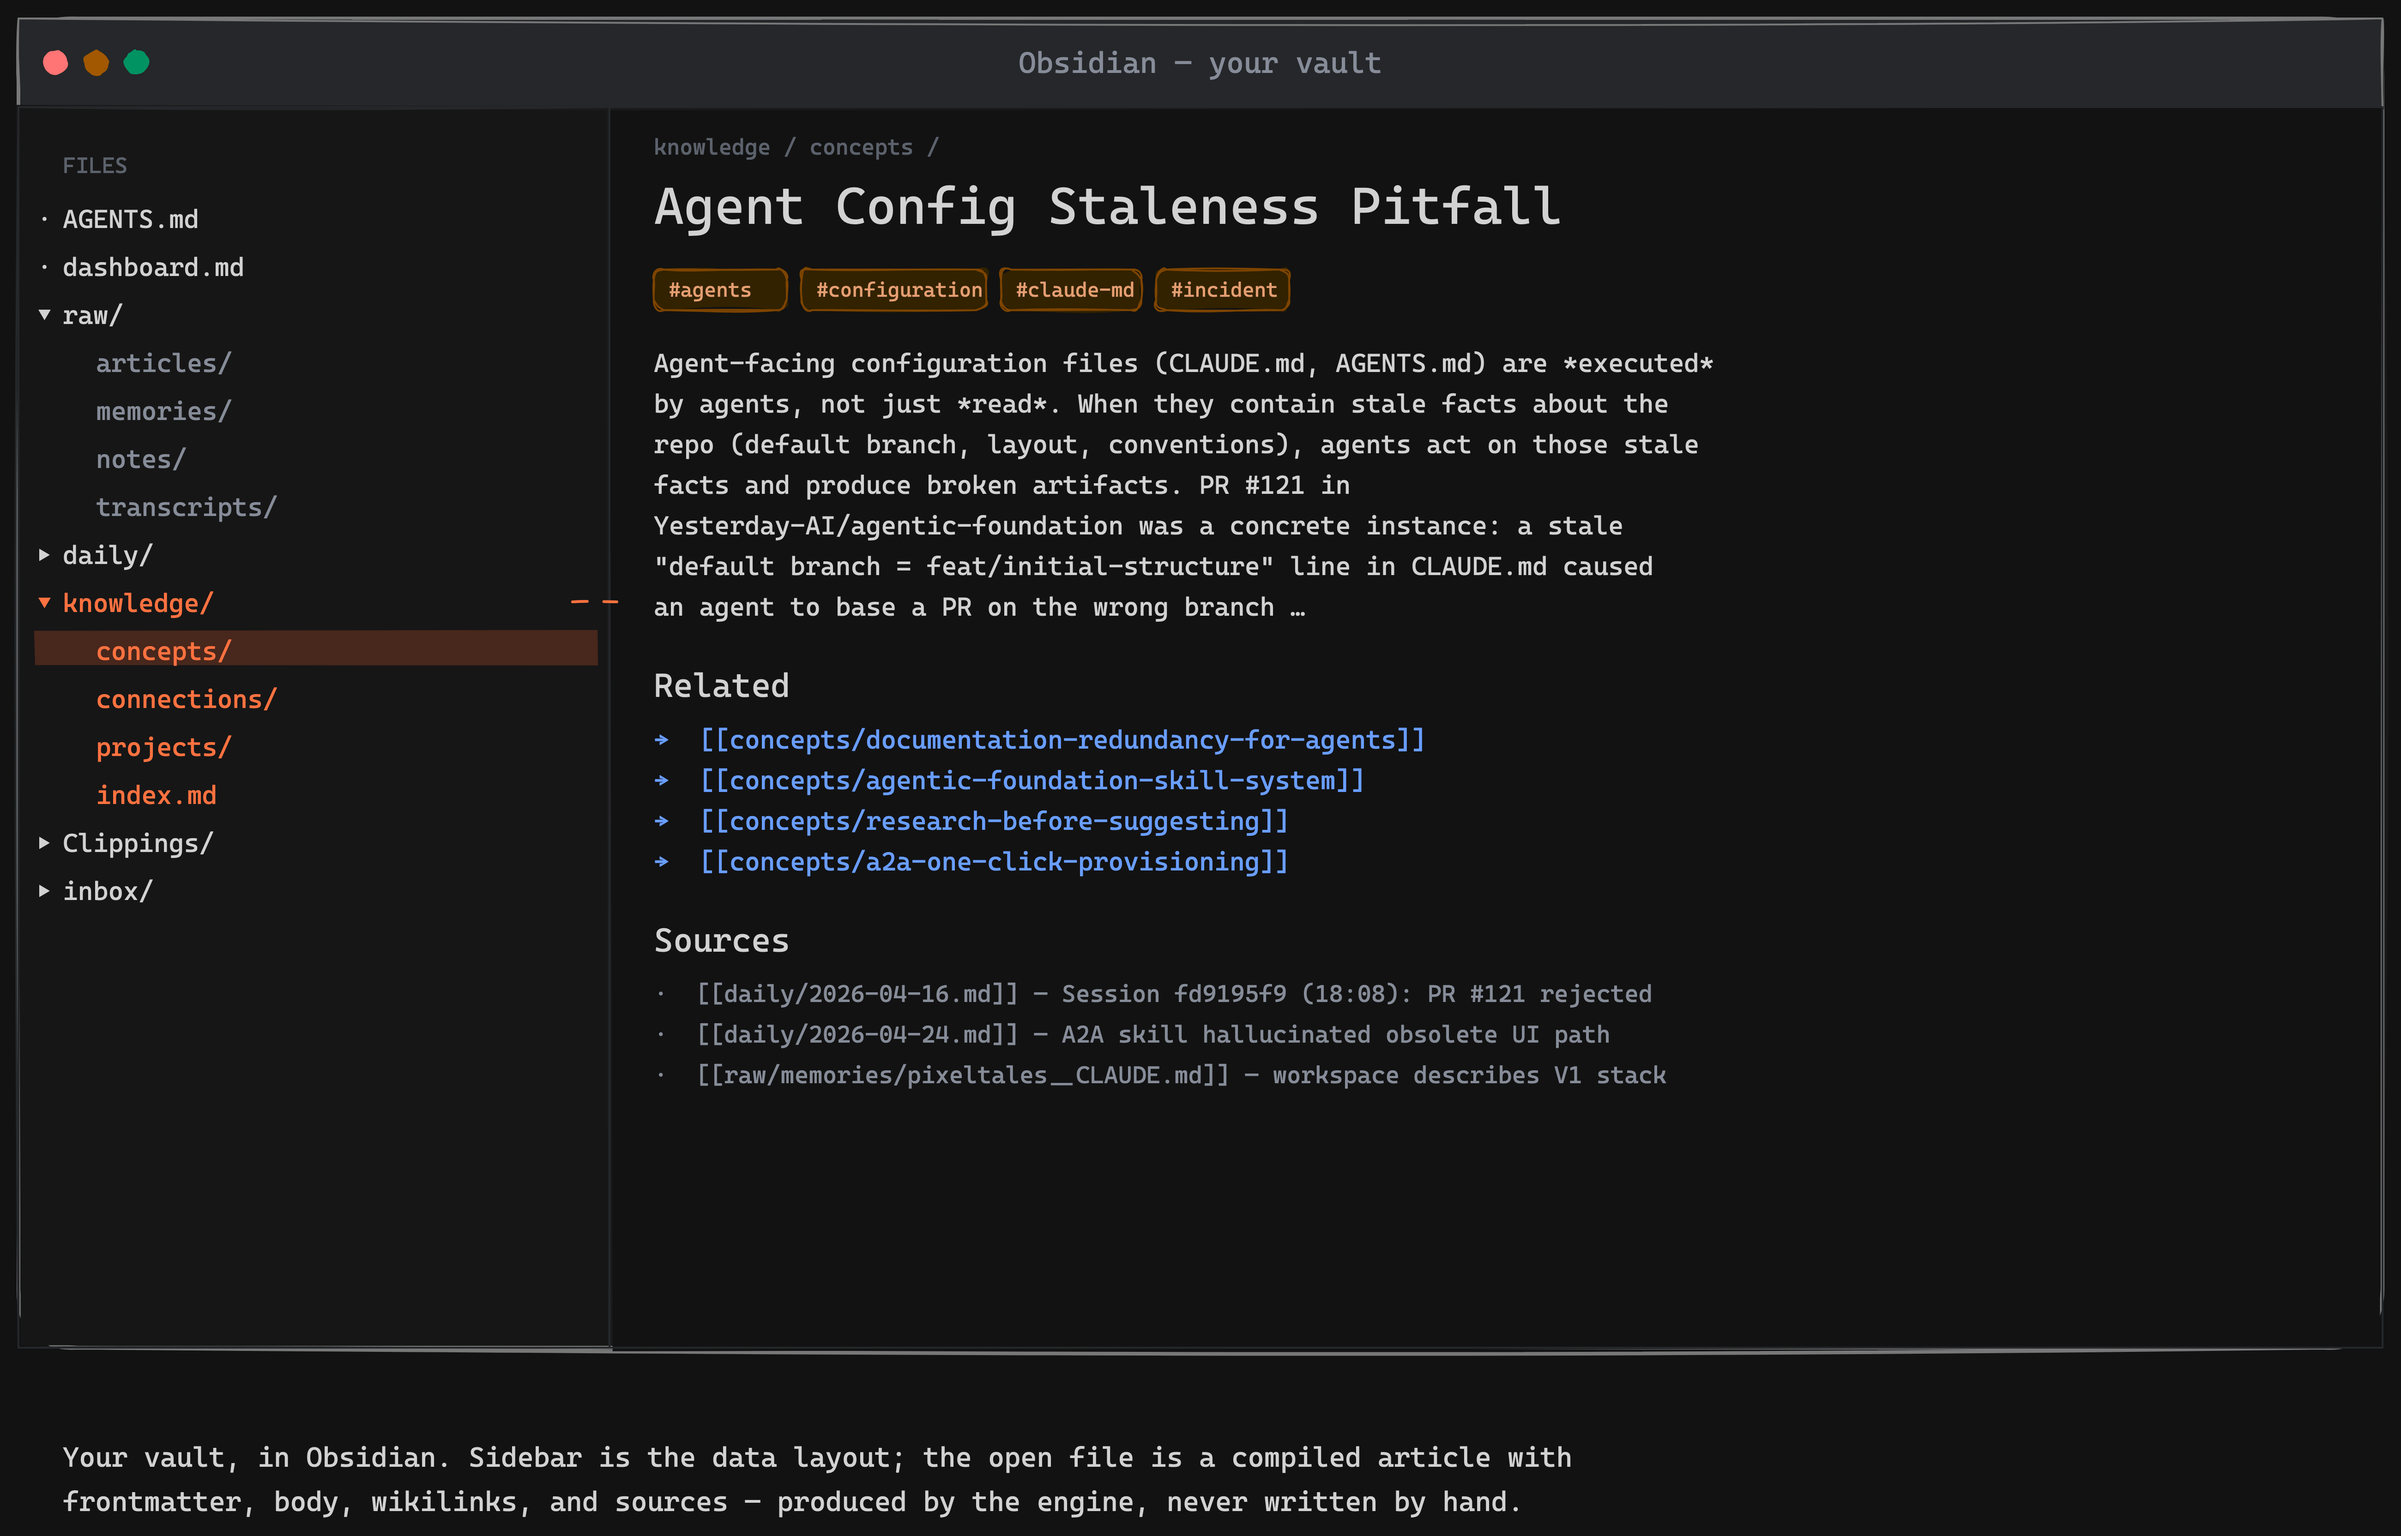
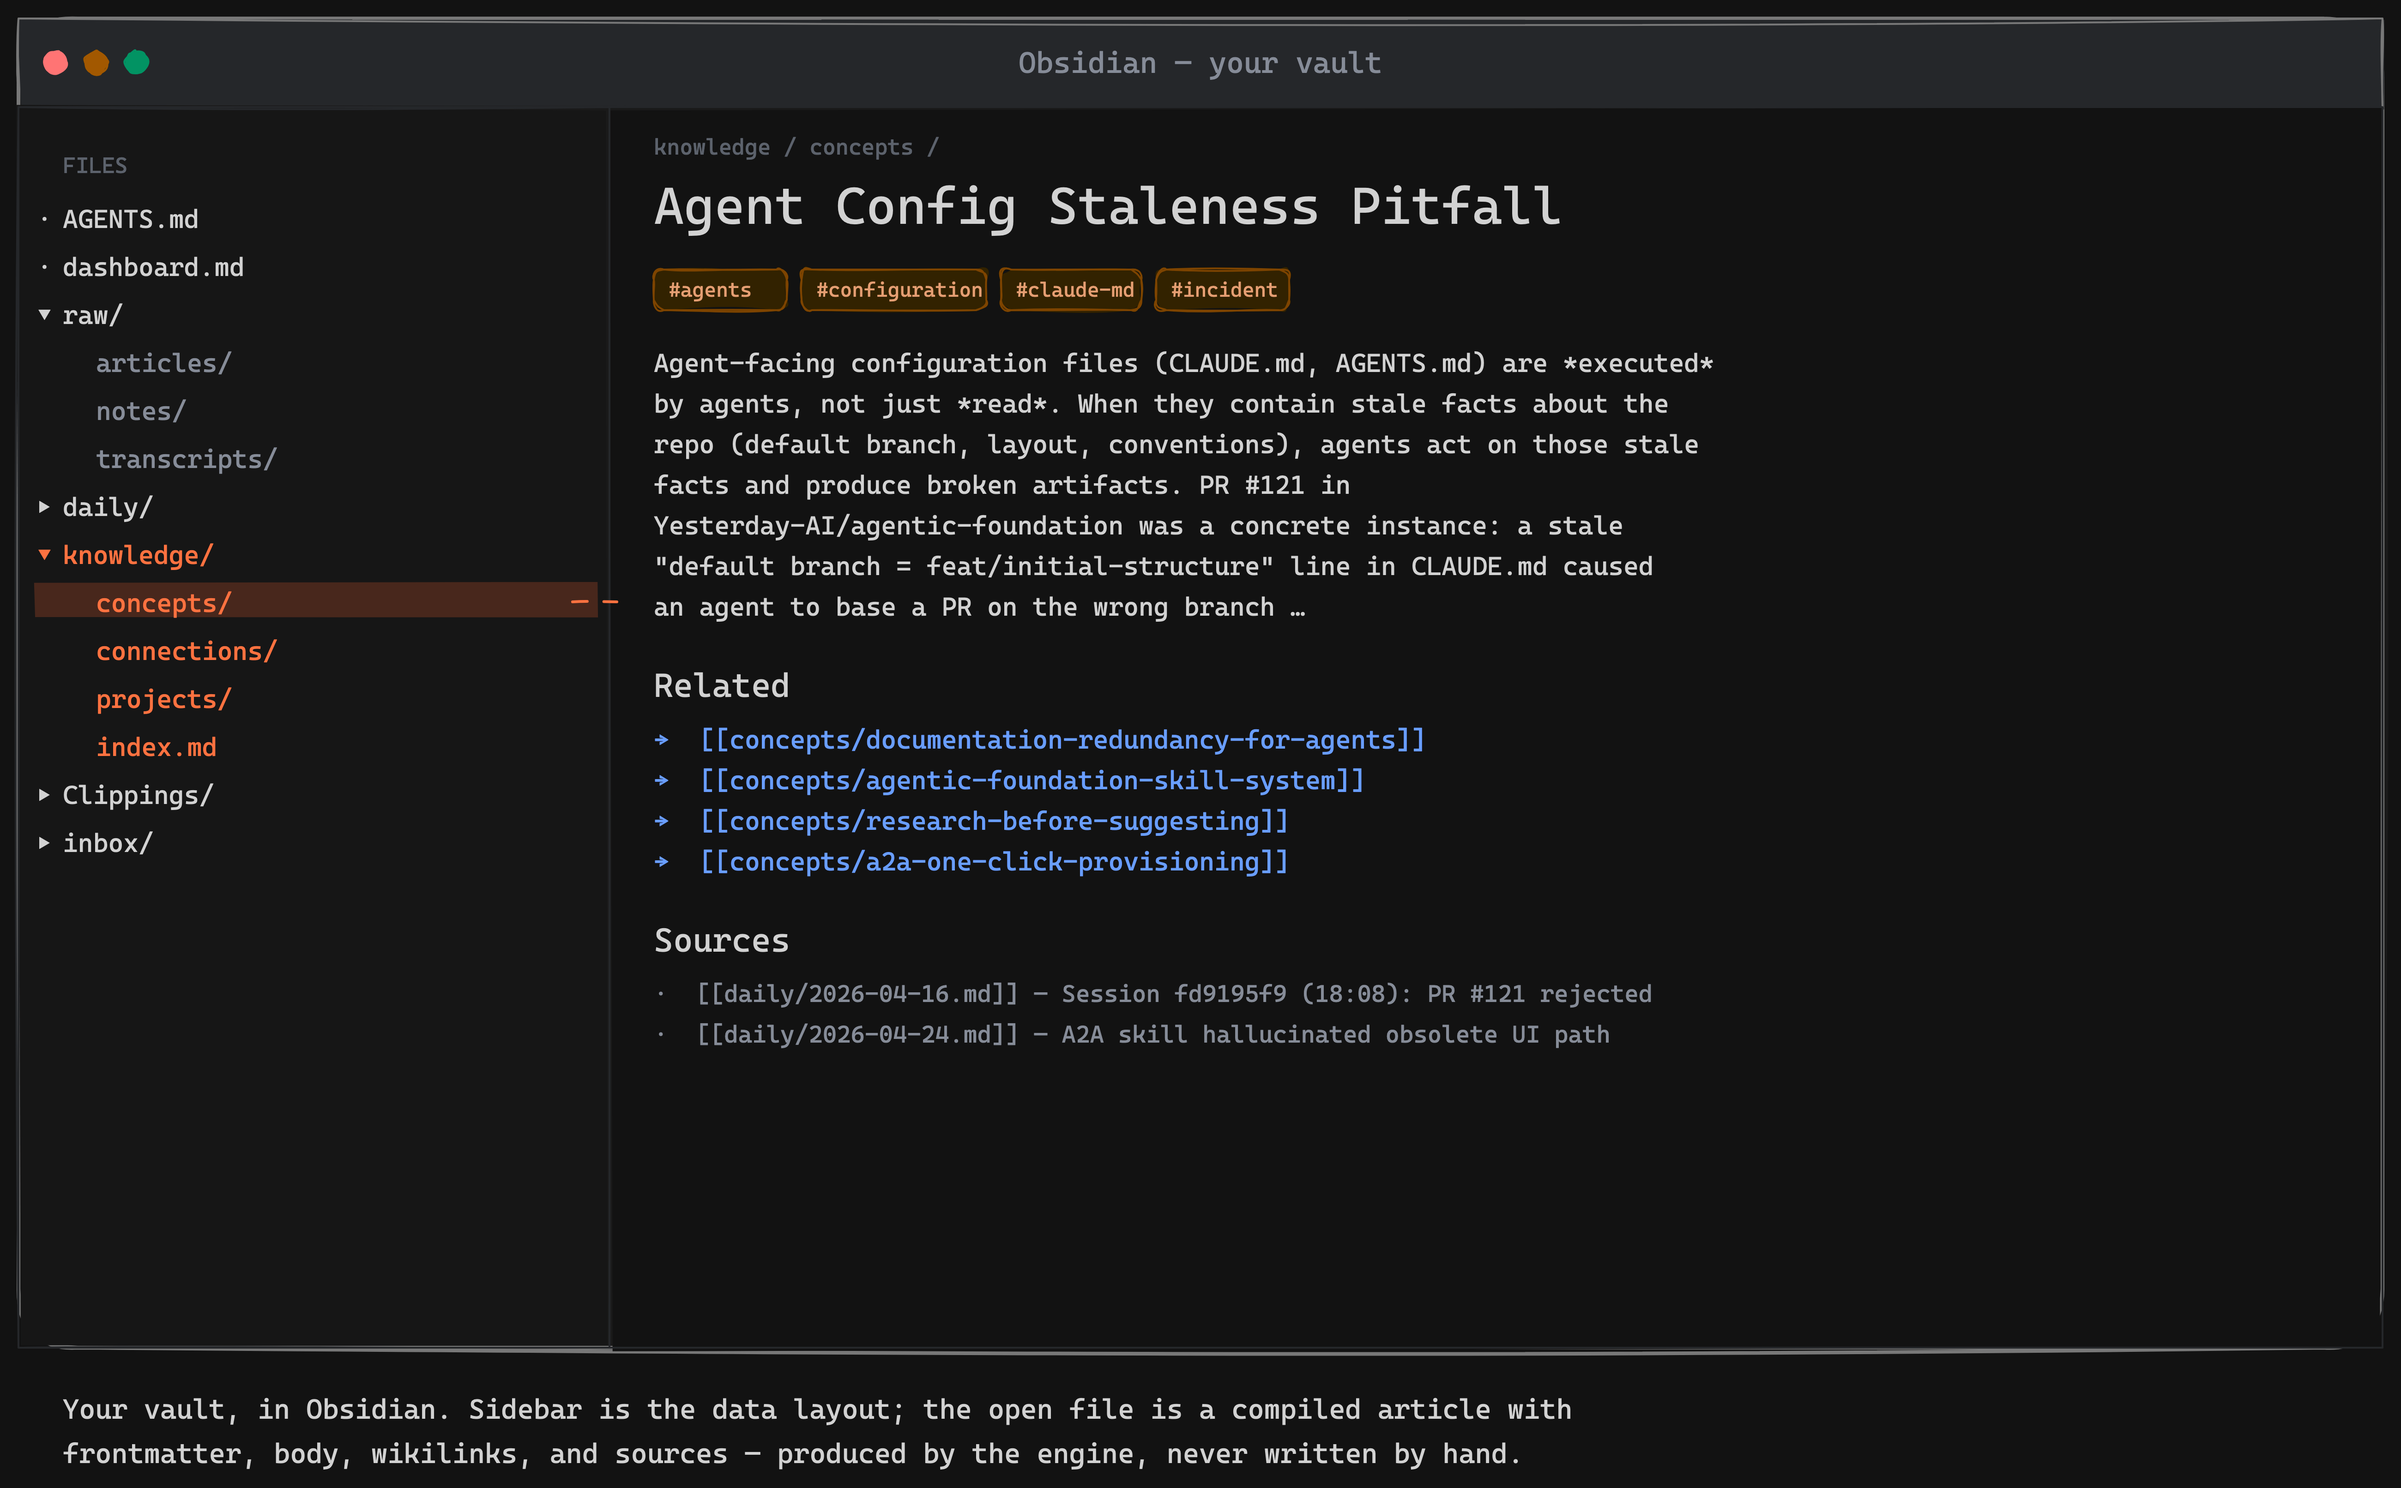
seed+visualize: catch up engine templates + infographics with sync-memories removal
Two engine-template drifts (both surfaced by `wiki seed --check` against
the productive vault):

templates/knowledge.base — Obsidian Bases 1.10+ changed the sort syntax
from `column: file.mtime` to `property: file.mtime`. Engine ships old
syntax → every vault auto-rewrites the file the moment it opens, then
shows as drifted forever. Fixed both `sort:` blocks.

templates/.obsidian/core-plugins.json — added `"bases": true` so the
ship-along `knowledge.base` actually renders in a fresh-install vault.
The vault had opted in manually; engine now ships matching default.

Three infographics had stale references to the removed sync-memories /
seed.py / raw/memories surface:

docs/vault-tour.excalidraw — removed `memories/` row from raw/ subtree
and the `[[raw/memories/pixeltales__CLAUDE.md]]` source line in the
article-example pane; downstream tree elements shifted up by 26 px
(the existing y-stride).

docs/overview.excalidraw — hero subtitle `AI memories + sessions + …`
→ `AI sessions + scans + meetings + clippings`. Substrate-list strip
`memories (opt-in)` and add `jamie` in its place.

docs/architecture.excalidraw — removed two boxes: the `sync-memories`
row in the piggyback list and the `sync-memories.py` scanner box
alongside its container + arrow. Manual-Ingest box updated from
`seed.py` to `ingest-html / process-inbox`. Kept the
"claude-memory-compiler" attribution line — that's Cole Medin's project
name, not a reference to our (gone) sync-memories.
[…]

diff --git a/.ytstack/backlog/seed-semantic-diff.md b/.ytstack/backlog/seed-semantic-diff.md
@@ -1,0 +1,67 @@
+# Seed drift detection: semantic JSON-diff for `.obsidian/`-managed files
+
+**Triggered by:** vault drift audit 2026-05-13. `wiki seed --check` currently uses `cmp -s` (binary equality). For Obsidian-plugin-edited files this produces near-100% false-positives because Obsidian touches the JSON the moment it opens the vault.
+**Priority:** P2 — refinement, not blocking. Engine works; audit just has noise.
+
+## Problem
+
+`_seed_file` in `lib/seed.sh` compares engine template vs vault file byte-for-byte. For plain-text Markdown templates (README, AGENTS) that's fine. For `.obsidian/*.json` / `.obsidian/plugins/*/data.json`, the comparison is misleading:
+
+| File | Real source of "drifted" | Engine-relevant? |
+|---|---|---|
+| `.obsidian/graph.json` | Operator's UI state: `collapse-color-groups`, `collapse-forces`, `scale` (zoom level), `collapse-filter` | No — these are runtime UI persisted state |
+| `.obsidian/plugins/quickadd/data.json` | QuickAdd auto-populated `providers[]` with OpenAI model catalogue on first settings open; plus pretty-print reformat | No — plugin runtime state |
+| `.obsidian/plugins/obsidian-shellcommands/data.json` | Operator changed one icon (`calendar-clock` → `bot`) | No — trivial UX preference |
+| `.obsidian/core-plugins.json` | Operator enabled `bases: true` for a plugin we ship a `.base` file for | Should be in engine template (separate ticket: see commit landing alongside this backlog entry) |
+
+In the 2026-05-13 audit, 5 of 6 reported drifts were structural noise; only `knowledge.base` + `core-plugins.json` were real engine-template-stale.
+
+## Proposed approach
+
+Per-file diff strategy declared in seed.sh itself:
+
+```bash
+# In _seed_file or a sibling helper:
+case "$rel_path" in
+  .obsidian/graph.json)
+    # Compare only the engine-relevant subset: search query, colorGroups,
+    # node-size knobs we set deliberately. Ignore UI state.
+    _diff_json_subset "$src" "$dst" '.search, .colorGroups, .nodeSizeMultiplier'
+    ;;
+  .obsidian/plugins/quickadd/data.json)
+    # Compare choices[] only — ignore .ai.providers (plugin runtime).
+    _diff_json_subset "$src" "$dst" '.choices'
+    ;;
+  .obsidian/plugins/obsidian-shellcommands/data.json)
+    # Compare shell_commands[*].shell_command (the actual command string)
+    # and id only — ignore icon, alias, confirm_execution prefs.
+    _diff_json_subset "$src" "$dst" '.shell_commands | map_values({shell_command, working_directory})'
+    ;;
+  *)
+    # Existing cmp -s for everything else (Markdown, etc.).
+    cmp -s "$src" "$dst"
+    ;;
+esac
+```
+
+Helper `_diff_json_subset src dst jq_expr`:
+- `jq "$jq_expr" "$src"` vs `jq "$jq_expr" "$dst"`
+- Pretty-print + sort keys (`jq -S`) before comparing — kills formatting noise
+- Return 0 if subsets match, 1 if drifted
+
+## Acceptance criteria
+
+- [ ] `wiki seed --check` against a fresh-out-of-box vault produces only "up-to-date" for `.obsidian/`-managed files
+- [ ] Operator deliberately changing an engine-relevant subset (e.g. editing `graph.json` `search` query) still surfaces as drifted
+- [ ] Operator changing UI state (zoom, collapse, icon prefs) does NOT surface as drifted
+- [ ] The per-file `jq_expr` strategy is documented inline so future files can be added by pattern-match
+
+## Out of scope
+
+- Auto-merging operator changes into engine updates (just detect, don't merge)
+- Diff-display in `wiki seed --check` output (current "drifted" tag is enough; deep diff is the operator's job via `git diff` or manual inspection)
+
+## Cross-links
+
+- `lib/seed.sh:_seed_file` — current binary cmp implementation
+- Memory: `feedback_backlog_by_default.md` — why this is being filed at all instead of forgotten
